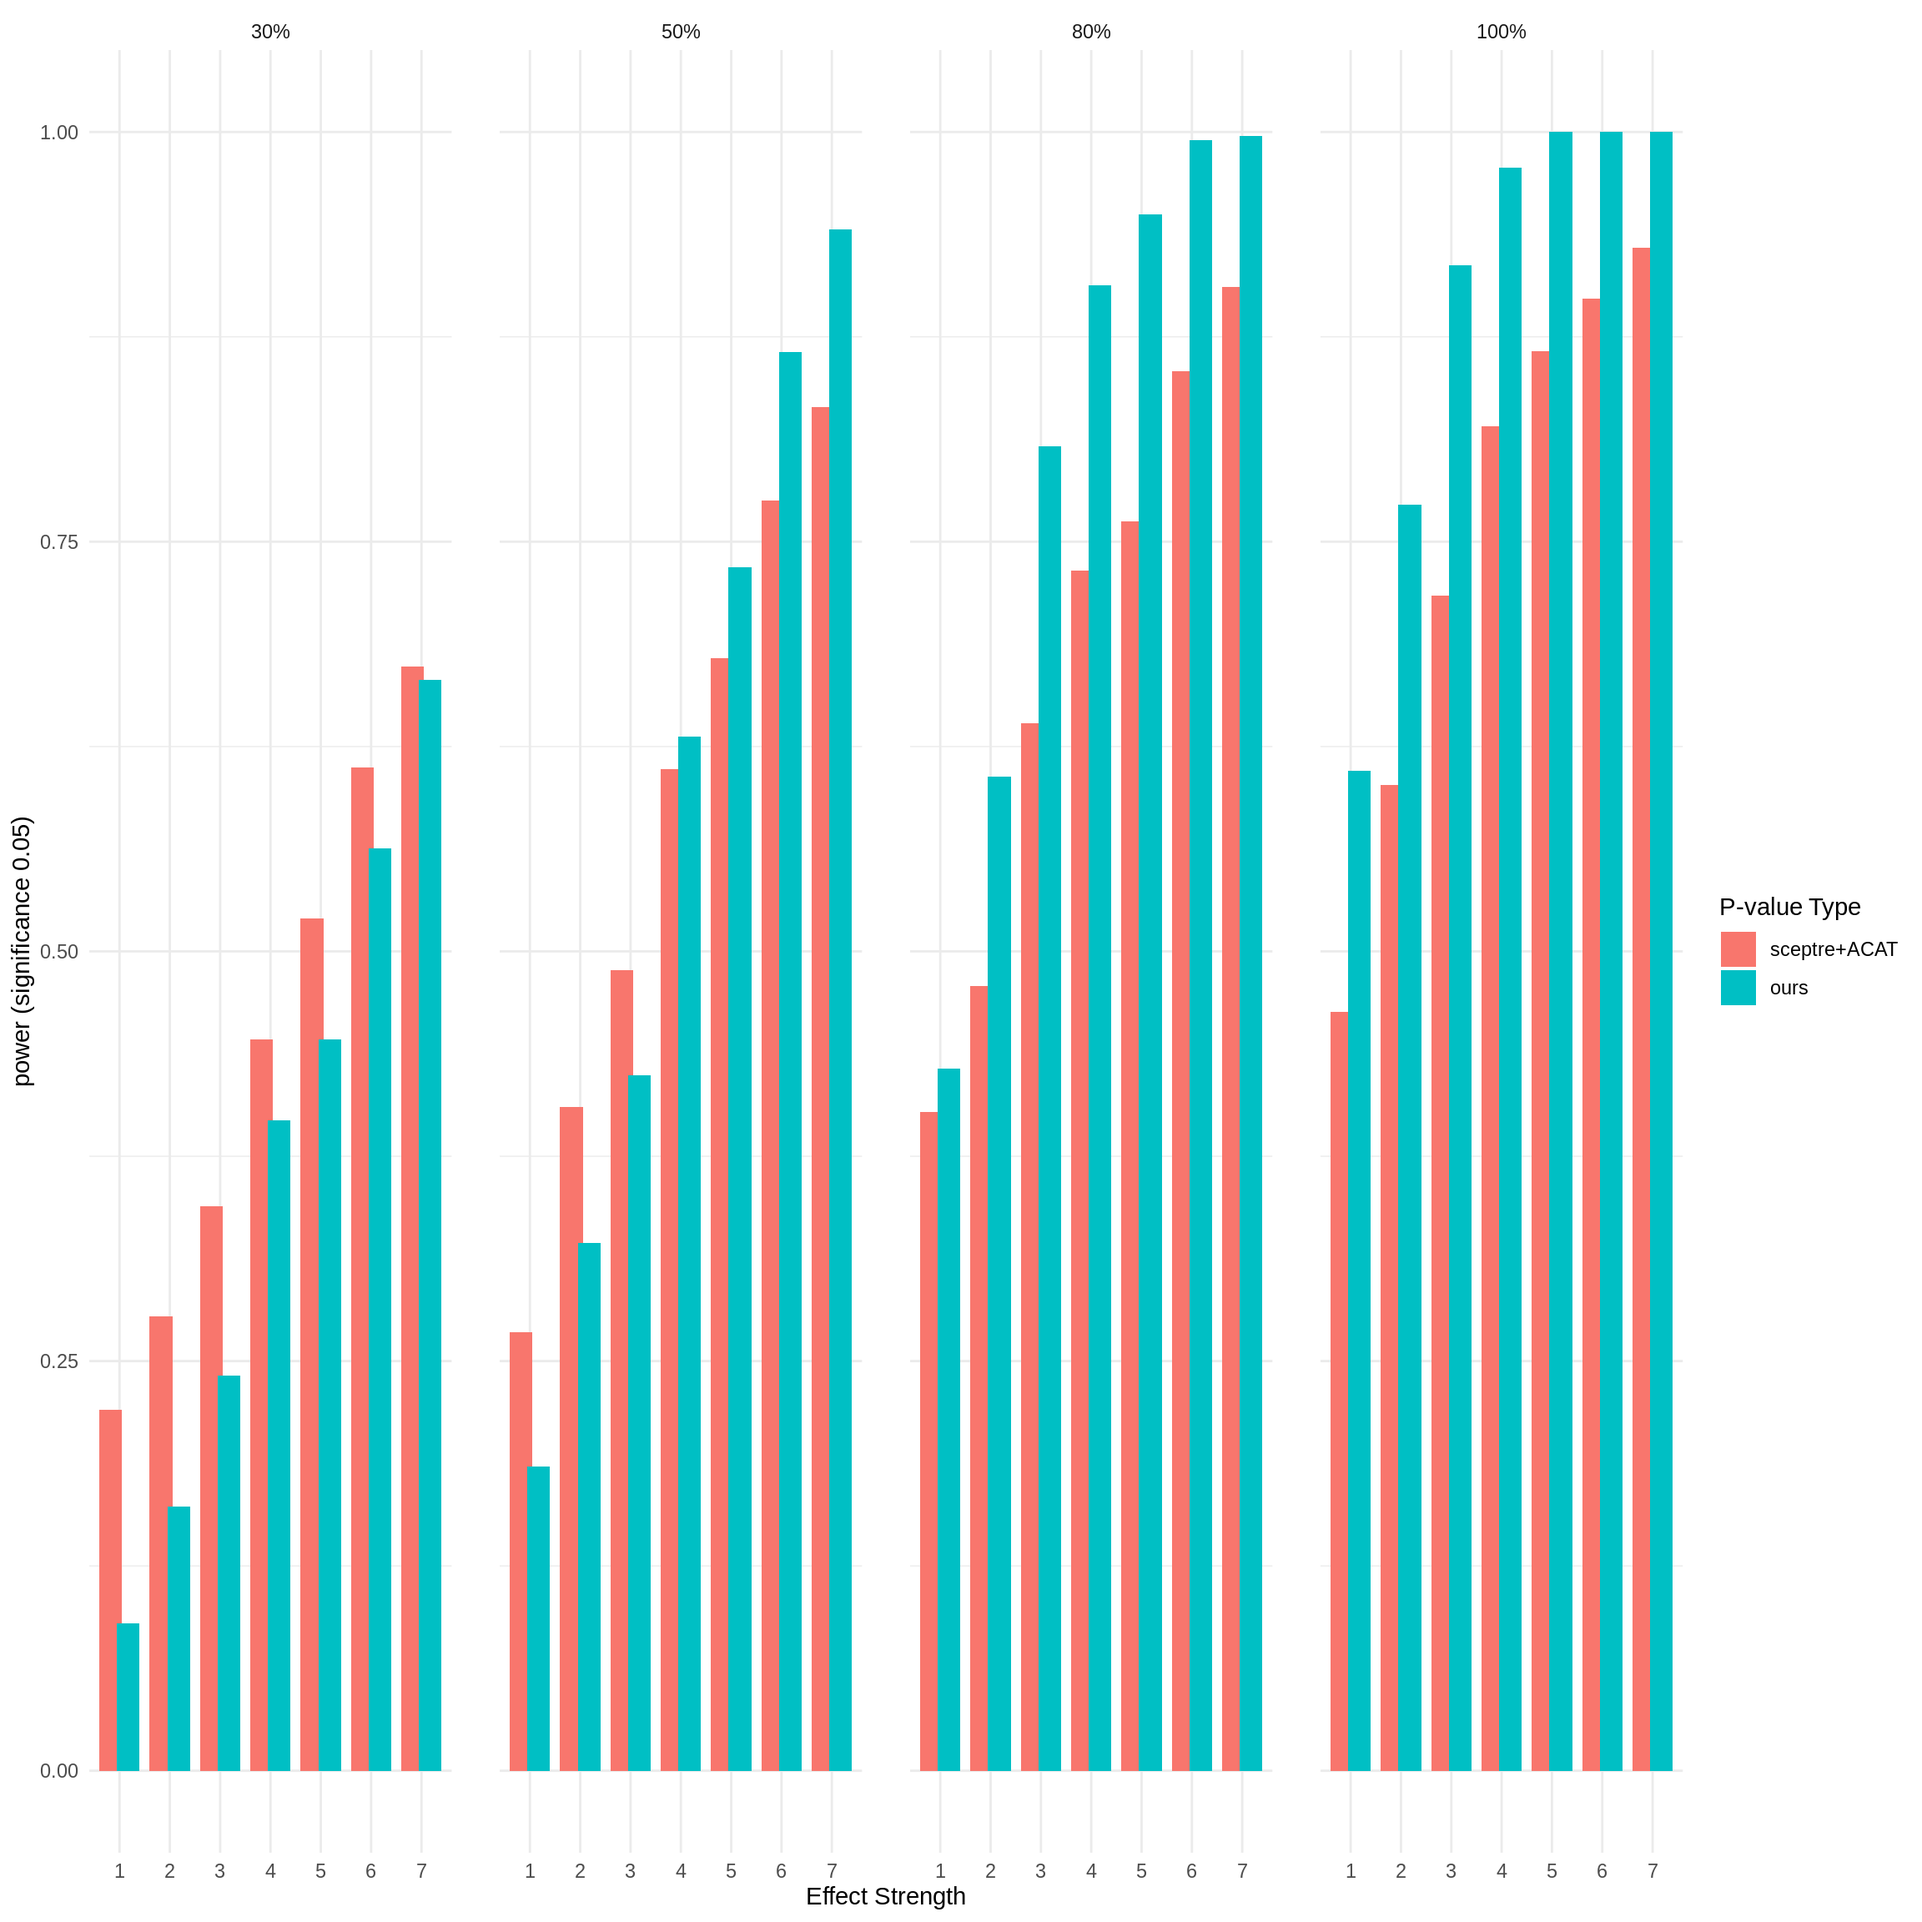
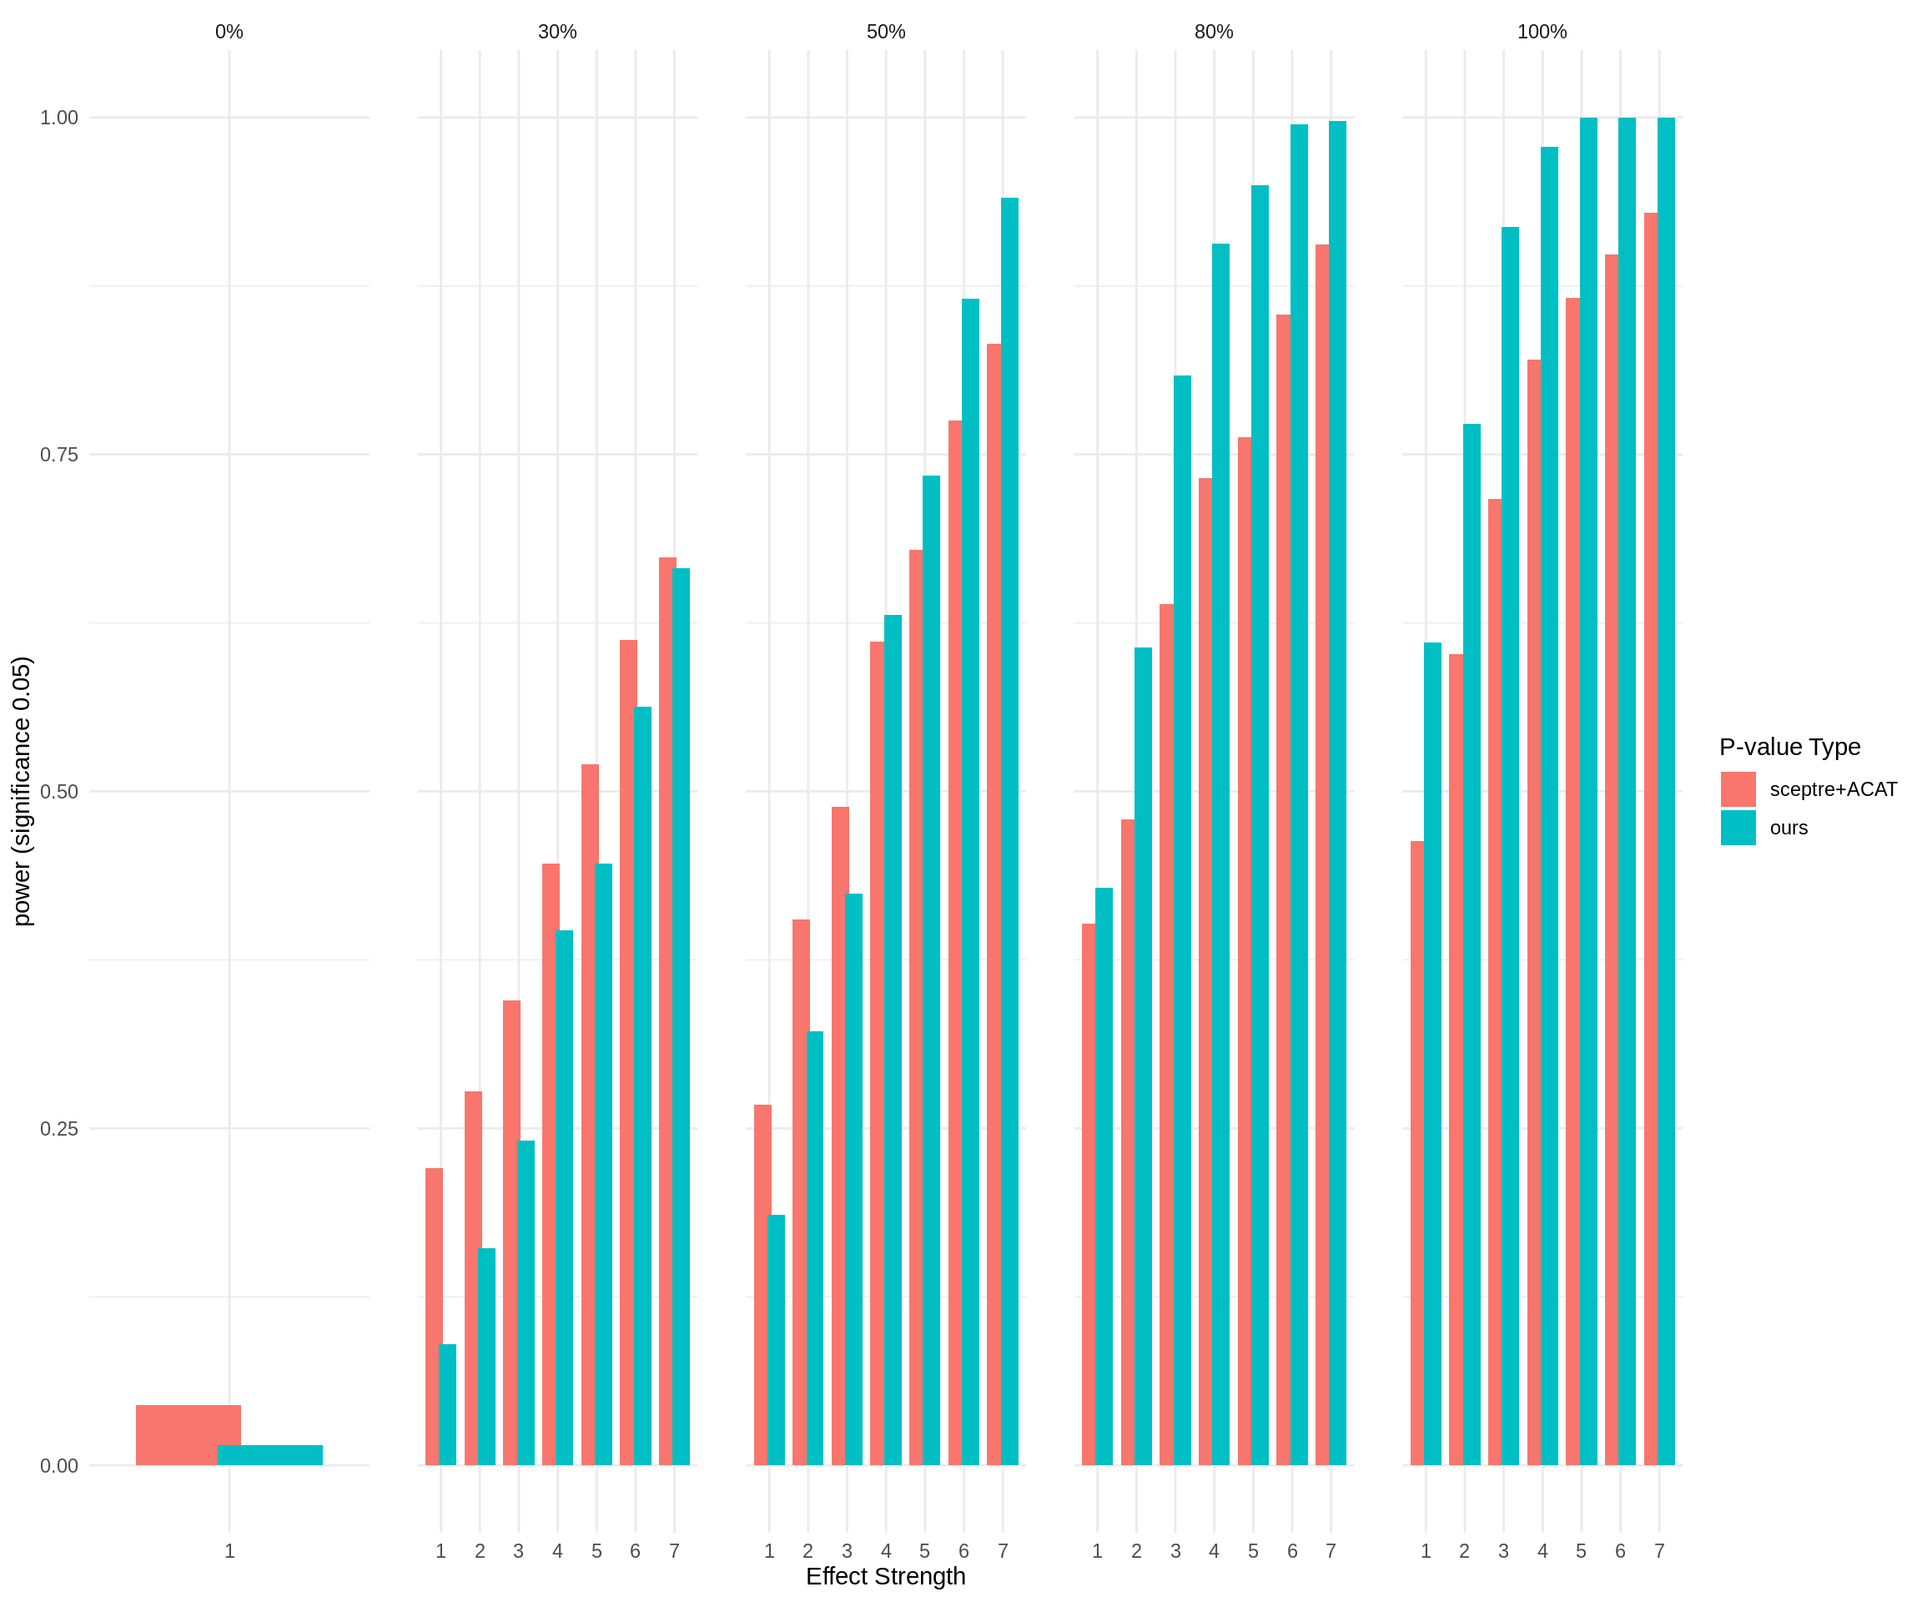
Build site.

diff --git a/docs/research_log_June.html b/docs/research_log_June.html
@@ -385,7 +385,7 @@ div.tocify {
 <div class="tab-content">
 <div id="summary" class="tab-pane fade in active">
 <p>
-<strong>Last updated:</strong> 2025-06-23
+<strong>Last updated:</strong> 2025-06-25
 </p>
 <p>
 <strong>Checks:</strong> <span class="glyphicon glyphicon-ok text-success" aria-hidden="true"></span> 6 <span class="glyphicon glyphicon-exclamation-sign text-danger" aria-hidden="true"></span> 1
@@ -780,6 +780,14 @@ output/Morris/debug/HALLMARK_100000_wilcox_no_approx_perturbation_gene_no_pertur
 output/simulation/our_acat_comparison
 </td>
 </tr>
+<tr>
+<td style="text-align:left;">
+/project/xuanyao/jiaming/Getting_started/output/simulation/our_acat_comparison_p2
+</td>
+<td style="text-align:left;">
+output/simulation/our_acat_comparison_p2
+</td>
+</tr>
 </tbody>
 </table>
 </div>
@@ -788,16 +796,16 @@ output/simulation/our_acat_comparison
 <div class="panel panel-default">
 <div class="panel-heading">
 <p class="panel-title">
-<a data-toggle="collapse" data-parent="#workflowr-checks" href="#strongRepositoryversionstrongahrefhttpsgithubcomjliucxsceptretreea510e0925b85f042326d102b98b313611ce74b36targetblanka510e09a"> <span class="glyphicon glyphicon-ok text-success" aria-hidden="true"></span> <strong>Repository version:</strong> <a href="https://github.com/jliucx/sceptre/tree/a510e0925b85f042326d102b98b313611ce74b36" target="_blank">a510e09</a> </a>
+<a data-toggle="collapse" data-parent="#workflowr-checks" href="#strongRepositoryversionstrongahrefhttpsgithubcomjliucxsceptretree23545407b5e855f218e95d006562328bc858a164targetblank2354540a"> <span class="glyphicon glyphicon-ok text-success" aria-hidden="true"></span> <strong>Repository version:</strong> <a href="https://github.com/jliucx/sceptre/tree/23545407b5e855f218e95d006562328bc858a164" target="_blank">2354540</a> </a>
 </p>
 </div>
[2 lines of base64/hex data omitted]
 <div class="panel-body">
 <p>
 Great! You are using Git for version control. Tracking code development and connecting the code version to the results is critical for reproducibility.
 </p>
 <p>
-The results in this page were generated with repository version <a href="https://github.com/jliucx/sceptre/tree/a510e0925b85f042326d102b98b313611ce74b36" target="_blank">a510e09</a>. See the <em>Past versions</em> tab to see a history of the changes made to the R Markdown and HTML files.
+The results in this page were generated with repository version <a href="https://github.com/jliucx/sceptre/tree/23545407b5e855f218e95d006562328bc858a164" target="_blank">2354540</a>. See the <em>Past versions</em> tab to see a history of the changes made to the R Markdown and HTML files.
 </p>
 <p>
 Note that you need to be careful to ensure that all relevant files for the analysis have been committed to Git prior to generating the results (you can use <code>wflow_publish</code> or <code>wflow_git_commit</code>). workflowr only checks the R Markdown file, but you know if there are other scripts or data files that it depends on. Below is the status of the Git repository when the results were generated:
@@ -806,6 +814,7 @@ Note that you need to be careful to ensure that all relevant files for the analy
 Ignored files:
     Ignored:    .Rhistory
     Ignored:    .Rproj.user/
+    Ignored:    analysis/figure/
     Ignored:    analysis/run.sh
     Ignored:    analysis/run_R.sh
 
@@ -905,6 +914,40 @@ Message
 </tr>
 </thead>
 <tbody>
+<tr>
+<td>
+Rmd
+</td>
+<td>
+<a href="https://github.com/jliucx/sceptre/blob/23545407b5e855f218e95d006562328bc858a164/analysis/research_log_June.Rmd" target="_blank">2354540</a>
+</td>
+<td>
+jliucx
+</td>
+<td>
+2025-06-25
+</td>
+<td>
+upload second simulation
+</td>
+</tr>
+<tr>
+<td>
+html
+</td>
+<td>
+<a href="https://rawcdn.githack.com/jliucx/sceptre/279dd0ac88c32f07efcbc3b1e01165ca75400f7e/docs/research_log_June.html" target="_blank">279dd0a</a>
+</td>
+<td>
+jliucx
+</td>
+<td>
+2025-06-23
+</td>
+<td>
+Build site.
+</td>
+</tr>
 <tr>
 <td>
 Rmd
@@ -1854,20 +1897,22 @@ jliucx
 </div>
 <div id="june-23-simulation" class="section level1" number="7">
 <h1 number="7"><span class="header-section-number">7</span> June 23 : Simulation</h1>
-<pre><code># A tibble: 28 × 3
+<div id="geneset-1" class="section level2" number="7.1">
+<h2 number="7.1"><span class="header-section-number">7.1</span> Geneset 1</h2>
+<pre><code># A tibble: 29 × 3
    Percentage_Short Effect_Strength     n
    &lt;chr&gt;            &lt;chr&gt;           &lt;int&gt;
- 1 100%             0.04              816
- 2 100%             0.045             492
- 3 100%             0.05              912
- 4 100%             0.055             912
- 5 100%             0.06              912
- 6 100%             0.065             904
- 7 100%             0.07              906
- 8 30%              0.04              890
- 9 30%              0.045             894
-10 30%              0.05              888
-# ℹ 18 more rows</code></pre>
+ 1 0%               0.055             402
+ 2 100%             0.04              816
+ 3 100%             0.045             492
+ 4 100%             0.05              912
+ 5 100%             0.055             912
+ 6 100%             0.06              912
+ 7 100%             0.065             904
+ 8 100%             0.07              906
+ 9 30%              0.04              890
+10 30%              0.045             894
+# ℹ 19 more rows</code></pre>
 <pre><code>Warning: &#39;timedatectl&#39; indicates the non-existent timezone name &#39;n/a&#39;</code></pre>
 <pre><code>unable to deduce timezone name from &#39;America/Chicago&#39;</code></pre>
 <pre><code>── Attaching packages ─────────────────────────────────────── tidyverse 1.3.1 ──</code></pre>
@@ -1909,6 +1954,17 @@ Date
 <tbody>
 <tr>
 <td>
+<a href="https://github.com/jliucx/sceptre/blob/279dd0ac88c32f07efcbc3b1e01165ca75400f7e/docs/figure/research_log_June.Rmd/unnamed-chunk-38-1.png" target="_blank">279dd0a</a>
+</td>
+<td>
+jliucx
+</td>
+<td>
+2025-06-23
+</td>
+</tr>
+<tr>
+<td>
 <a href="https://github.com/jliucx/sceptre/blob/caf8062753973c4c5852bd11e9dd80d088a98bb2/docs/figure/research_log_June.Rmd/unnamed-chunk-38-1.png" target="_blank">caf8062</a>
 </td>
 <td>
@@ -1922,6 +1978,24 @@ jliucx
 </table>
 </div>
 </div>
+</div>
+<div id="geneset-2" class="section level2" number="7.2">
+<h2 number="7.2"><span class="header-section-number">7.2</span> Geneset 2</h2>
+<pre><code># A tibble: 29 × 3
+   Group      ACAT_length ours_length
+   &lt;chr&gt;            &lt;int&gt;       &lt;int&gt;
+ 1 0%_0.04           4995        4995
+ 2 100%_0.04           98          98
+ 3 100%_0.045          73          73
+ 4 100%_0.05           51          51
+ 5 100%_0.055          80          80
+ 6 100%_0.06          108         108
+ 7 100%_0.065         151         151
+ 8 100%_0.07           77          77
+ 9 30%_0.04           124         124
+10 30%_0.045          194         194
+# ℹ 19 more rows</code></pre>
+<p><img src="figure/research_log_June.Rmd/unnamed-chunk-41-1.png" width="1152" style="display: block; margin: auto;" /></p>
 <br>
 <p>
 <button type="button" class="btn btn-default btn-workflowr btn-workflowr-sessioninfo" data-toggle="collapse" data-target="#workflowr-sessioninfo" style="display: block;">
@@ -1981,6 +2055,7 @@ loaded via a namespace (and not attached):
 [65] cellranger_1.1.0  gtable_0.3.0      polyclip_1.10-6   assertthat_0.2.1 
 [69] cachem_1.0.8      xfun_0.51         broom_0.7.8       pracma_2.4.4     
 [73] later_1.2.0       ellipsis_0.3.2   </code></pre>
+</div>
 </div>
 </div>
 
